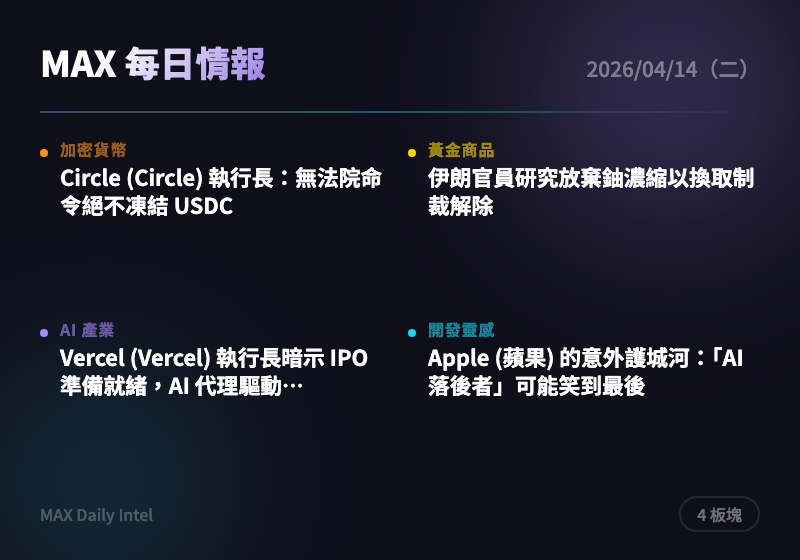
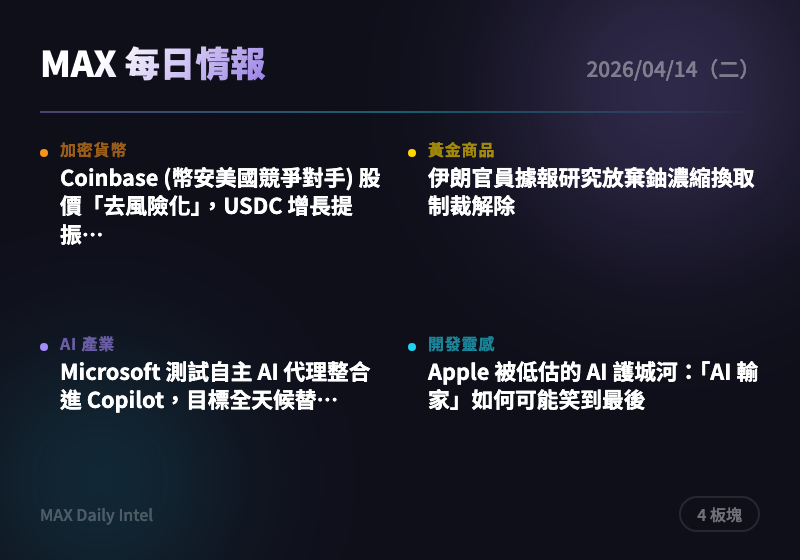
intel: 2026-04-14 每日情報自動生成

diff --git a/docs/2026-04-14.html b/docs/2026-04-14.html
@@ -317,16 +317,16 @@
       <span class="badge">2 則</span>
     </div>
     <div class="news-card">
-      <div class="source">CoinDesk</div>
-      <h3><a href="https://www.coindesk.com/business/2026/04/13/circle-ceo-says-he-won-t-freeze-usdc-without-a-court-order-even-as-hackers-walk-away-with-millions" target="_blank" rel="noopener">Circle (Circle) 執行長：無法院命令絕不凍結 USDC</a></h3>
-      <div class="summary">Circle (Circle) 執行長明確表態，即使駭客利用 USDC 洗錢，也不會在無法院命令的情況下主動凍結資產，強調去中心化原則。此聲明凸顯穩定幣發行商在「合規」與「去中心化精神」之間的根本張力。對於機構持有者而言，USDC 的抗審查立場是加分項，但也意味著監管風險並未消除。</div>
-      <div class="tags"><span class="tag">USDC</span><span class="tag">Circle</span><span class="tag">去中心化</span><span class="tag">監管</span></div>
+      <div class="source">The Block</div>
+      <h3><a href="https://www.theblock.co/post/397233/coinbase-shares-de-risked-selloff-usdc-growth-circle-outlook-william-blair?utm_source=rss&utm_medium=rss" target="_blank" rel="noopener">Coinbase (幣安美國競爭對手) 股價「去風險化」，USDC 增長提振 Circle 前景</a></h3>
+      <div class="summary">Coinbase 股價距 2025 年 7 月高點 445 美元仍跌逾 60%，但 William Blair 分析師認為拋售已充分反映風險，USDC 的持續增長成為支撐估值的關鍵動能。這顯示穩定幣生態系統的健康度正成為評估交易所基本面的核心指標。投資人可將 USDC 鑄造量趨勢視為 Coinbase 收入的領先指標。</div>
+      <div class="tags"><span class="tag">穩定幣</span><span class="tag">交易所</span><span class="tag">估值分析</span><span class="tag">USDC</span></div>
     </div>
     <div class="news-card">
       <div class="source">CoinDesk</div>
-      <h3><a href="https://www.coindesk.com/policy/2026/04/13/bankers-rebuff-white-house-claim-that-stablecoin-yield-doesn-t-threaten-deposits" target="_blank" rel="noopener">銀行業者反駁白宮：穩定幣收益率確實威脅存款</a></h3>
-      <div class="summary">美國銀行業者公開駁斥白宮對穩定幣收益率「不影響銀行存款」的說法，認為若穩定幣開始提供利息，將直接與銀行存款競爭。此論戰正值美國國會審議穩定幣法案的關鍵時刻，監管走向將深遠影響整個加密金融生態。投資者應密切關注穩定幣立法進展，這將決定 USDC、USDT 等資產的合規空間。</div>
-      <div class="tags"><span class="tag">穩定幣</span><span class="tag">監管</span><span class="tag">美國政策</span><span class="tag">銀行業</span></div>
+      <h3><a href="https://www.coindesk.com/business/2026/04/13/circle-ceo-says-he-won-t-freeze-usdc-without-a-court-order-even-as-hackers-walk-away-with-millions" target="_blank" rel="noopener">Circle 執行長：無法院命令絕不凍結 USDC，即便駭客正在盜走數百萬</a></h3>
+      <div class="summary">Circle (穩定幣發行商) 執行長公開表態，不會在未獲法院命令的情況下凍結 USDC，此聲明直接回應外界對穩定幣緊急干預機制的質疑。這一立場強化了去中心化精神，但同時也引發監管機構對穩定幣缺乏即時應急機制的擔憂。持有 USDC 的機構應了解此政策對危機情境下資產保護的潛在影響。</div>
+      <div class="tags"><span class="tag">穩定幣</span><span class="tag">監管</span><span class="tag">資安</span><span class="tag">Circle</span></div>
     </div>
   </section>
 
@@ -338,15 +338,15 @@
     </div>
     <div class="news-card">
       <div class="source">ForexLive</div>
-      <h3><a href="https://investinglive.com/news/iran-officials-are-studying-abandoning-enrichment-report-20260413/" target="_blank" rel="noopener">伊朗官員研究放棄鈾濃縮以換取制裁解除</a></h3>
-      <div class="summary">據報導，伊朗官員正內部研究以放棄鈾濃縮換取全面制裁解除的方案，顯示雙方可能在最高層仍存在談判空間。若協議達成，原油供應將大幅增加，油價與黃金的地緣溢價將同步回落。黃金多頭需防範地緣緊張意外緩解帶來的回調風險。</div>
-      <div class="tags"><span class="tag">地緣政治</span><span class="tag">伊朗核協議</span><span class="tag">油價</span><span class="tag">黃金</span></div>
+      <h3><a href="https://investinglive.com/news/iran-officials-are-studying-abandoning-enrichment-report-20260413/" target="_blank" rel="noopener">伊朗官員據報研究放棄鈾濃縮換取制裁解除</a></h3>
+      <div class="summary">紐約郵報報導伊朗官員正評估以放棄鈾濃縮換取全面制裁解除的談判框架，市場解讀為 Trump 尋求快速外交出口的訊號。若談判取得實質進展，地緣政治風險溢價將大幅回落，對黃金、油價形成下行壓力。交易者應設置地緣政治情境的雙向停損，避免單邊押注。</div>
+      <div class="tags"><span class="tag">地緣政治</span><span class="tag">伊朗</span><span class="tag">黃金</span><span class="tag">避險</span></div>
     </div>
     <div class="news-card">
       <div class="source">ForexLive</div>
-      <h3><a href="https://investinglive.com/news/investinglive-european-markets-wrap-oil-jumps-up-risk-dips-after-us-iran-talks-collapse-20260413/" target="_blank" rel="noopener">美伊談判破裂：油價飆升、風險資產承壓</a></h3>
-      <div class="summary">美伊核談判宣告崩潰，市場情緒迅速轉向避險，油價應聲大漲。Trump (川普) 政府同步宣告對伊朗港口實施封鎖，地緣政治緊張局勢急速升溫。黃金短期避險需求料將上升，建議關注突破前高後的持倉機會。</div>
-      <div class="tags"><span class="tag">地緣政治</span><span class="tag">伊朗</span><span class="tag">油價</span><span class="tag">避險</span></div>
+      <h3><a href="https://investinglive.com/news/investinglive-european-markets-wrap-oil-jumps-up-risk-dips-after-us-iran-talks-collapse-20260413/" target="_blank" rel="noopener">美伊談判破裂後油價飆升、風險情緒降溫，歐洲市場承壓</a></h3>
+      <div class="summary">美伊核談判破裂疊加 Trump 宣布對伊朗港口封鎖，導致油價急漲、歐洲股市風險偏好下滑。這印證了中東局勢對全球能源供應的直接傳導效應，黃金作為避險資產需求持續受到支撐。短期內應維持黃金多頭部位以對沖局勢進一步惡化的尾部風險。</div>
+      <div class="tags"><span class="tag">地緣政治</span><span class="tag">油價</span><span class="tag">黃金</span><span class="tag">風險情緒</span></div>
     </div>
   </section>
 
@@ -375,16 +375,16 @@
       <span class="badge">2 則</span>
     </div>
     <div class="news-card">
-      <div class="source">TechCrunch AI</div>
-      <h3><a href="https://techcrunch.com/2026/04/13/vercel-ceo-guillermo-rauch-signals-ipo-readiness-as-ai-agents-fuel-revenue-surge/" target="_blank" rel="noopener">Vercel (Vercel) 執行長暗示 IPO 準備就緒，AI 代理驅動營收暴增</a></h3>
-      <div class="summary">Vercel (Vercel) 執行長 Guillermo Rauch (勞赫) 公開表示公司已為 IPO 做好準備，主要動能來自 AI 生成應用與代理框架的爆炸性成長。在許多 AI 前時代新創掙扎轉型之際，Vercel 已成功卡位 AI 應用部署基礎設施的關鍵位置。這是觀察 AI 基礎設施投資機會的重要訊號。</div>
-      <div class="tags"><span class="tag">AI基礎設施</span><span class="tag">IPO</span><span class="tag">Vercel</span><span class="tag">開發者工具</span></div>
+      <div class="source">The Verge AI</div>
+      <h3><a href="https://www.theverge.com/tech/911080/microsoft-ai-openclaw-365-businesses" target="_blank" rel="noopener">Microsoft 測試自主 AI 代理整合進 Copilot，目標全天候替用戶執行任務</a></h3>
+      <div class="summary">據《The Information》報導，Microsoft 正測試將自主代理（agentic AI）功能整合進 Microsoft 365 Copilot，讓 AI 能在無人監督情況下全天候自動完成工作任務。這標誌著企業 AI 助理從「被動回應」向「主動執行」的關鍵轉型，將直接衝擊 RPA 和工作流程自動化市場。企業 IT 決策者應提前評估此類自主代理的資安與合規風險。</div>
+      <div class="tags"><span class="tag">AI代理</span><span class="tag">Microsoft</span><span class="tag">企業AI</span><span class="tag">自動化</span></div>
     </div>
     <div class="news-card">
       <div class="source">The Verge AI</div>
-      <h3><a href="https://www.theverge.com/ai-artificial-intelligence/910890/openai-sam-altman-second-home-attack-shooting" target="_blank" rel="noopener">Sam Altman (奧特曼) 住所遭槍擊，兩名嫌疑人被捕</a></h3>
-      <div class="summary">OpenAI (OpenAI) 執行長 Sam Altman (奧特曼) 週日清晨在舊金山 Russian Hill 住所再度遭遇攻擊事件，警方已逮捕兩名嫌疑人並以過失開槍罪起訴。此為近期針對 Altman (奧特曼) 的第二起安全事件，科技業高管人身安全問題引發廣泛關注。事件對 OpenAI (OpenAI) 短期運營影響有限，但凸顯 AI 領袖所面臨的潛在社會反彈。</div>
-      <div class="tags"><span class="tag">OpenAI</span><span class="tag">人身安全</span><span class="tag">科技業高管</span><span class="tag">社會議題</span></div>
+      <h3><a href="https://www.theverge.com/ai-artificial-intelligence/910890/openai-sam-altman-second-home-attack-shooting" target="_blank" rel="noopener">OpenAI 執行長 Sam Altman 舊金山住所再遭槍擊，兩嫌犯落網</a></h3>
+      <div class="summary">Sam Altman (奧特曼) 的俄羅斯山住所週日清晨發生槍擊事件，監控畫面顯示一輛車輛開槍後逃逸，兩名嫌犯以過失放槍罪被捕。這是針對 Altman 的第二起安全事件，凸顯 AI 頂尖領袖正面臨日益升高的人身威脅。此事件可能促使科技業高管大幅強化個人安全防護措施。</div>
+      <div class="tags"><span class="tag">AI領袖</span><span class="tag">人身安全</span><span class="tag">OpenAI</span><span class="tag">矽谷</span></div>
     </div>
   </section>
 
@@ -396,15 +396,15 @@
     </div>
     <div class="news-card">
       <div class="source">Hacker News Best</div>
-      <h3><a href="https://adlrocha.substack.com/p/adlrocha-how-the-ai-loser-may-end" target="_blank" rel="noopener">Apple (蘋果) 的意外護城河：「AI 落後者」可能笑到最後</a></h3>
-      <div class="summary">Hacker News 熱文（390 分）分析 Apple (蘋果) 在 AI 競賽中看似落後，卻因硬體生態、隱私架構與端側運算優勢，可能在下一階段佔得先機。當雲端 AI 邊際成本下降、隱私監管趨嚴，Apple (蘋果) 的「慢而穩」策略或成差異化壁壘。開發者評估 on-device AI 佈局時，Apple (蘋果) 平台值得重新審視。</div>
-      <div class="tags"><span class="tag">Apple</span><span class="tag">AI策略</span><span class="tag">端側AI</span><span class="tag">競爭分析</span></div>
+      <h3><a href="https://adlrocha.substack.com/p/adlrocha-how-the-ai-loser-may-end" target="_blank" rel="noopener">Apple 被低估的 AI 護城河：「AI 輸家」如何可能笑到最後</a></h3>
+      <div class="summary">Hacker News 上獲 392 分、350 則評論熱議的文章，深度分析 Apple 獨特的硬體+軟體+隱私整合優勢如何在 AI 落地應用階段形成天然護城河。作者指出當 AI 競爭從模型能力轉向端側推理與用戶信任時，Apple 的生態系統將從劣勢翻轉為優勢。這對評估 AI 時代科技巨頭競爭格局有重要的策略參考價值。</div>
+      <div class="tags"><span class="tag">Apple</span><span class="tag">AI戰略</span><span class="tag">競爭格局</span><span class="tag">端側AI</span></div>
     </div>
     <div class="news-card">
       <div class="source">Product Hunt</div>
-      <h3><a href="https://www.producthunt.com/products/superhq" target="_blank" rel="noopener">SuperHQ：在真實 microVM 沙盒中運行 AI 程式碼代理</a></h3>
-      <div class="summary">SuperHQ 提供在隔離 microVM (微型虛擬機) 沙盒環境中執行 AI 程式碼代理的基礎設施，解決代理執行環境安全隔離的核心痛點。隨著 AI coding agent 進入生產應用，安全沙盒執行環境成為關鍵基礎設施缺口。這類工具對需要在多租戶環境部署 AI 代理的開發團隊具有直接參考價值。</div>
-      <div class="tags"><span class="tag">AI代理</span><span class="tag">沙盒安全</span><span class="tag">開發工具</span><span class="tag">基礎設施</span></div>
+      <h3><a href="https://www.producthunt.com/products/contextpool" target="_blank" rel="noopener">ContextPool：為 AI 編程代理提供跨會話持久記憶的新工具</a></h3>
+      <div class="summary">Product Hunt 新品 ContextPool 專為解決 AI 編程代理（如 Copilot、Cursor 等）在不同工作會話間遺忘上下文的核心痛點而設計。持久記憶能力是 AI 代理從「工具」進化為「協作夥伴」的關鍵缺口，此類基礎設施工具市場需求正快速增長。開發者可評估其與現有 IDE 工具鏈的整合深度再決定是否採用。</div>
+      <div class="tags"><span class="tag">AI編程</span><span class="tag">開發工具</span><span class="tag">持久記憶</span><span class="tag">代理架構</span></div>
     </div>
   </section>
 

diff --git a/docs/cards/2026-04-14-card.html b/docs/cards/2026-04-14-card.html
@@ -23,9 +23,9 @@ body{width:400px;height:280px;font-family:'Noto Sans TC',-apple-system,sans-seri
 <div class="content">
 <div class="top-row"><span class="title">MAX 每日情報</span><span class="date">2026/04/14（二）</span></div>
 <div class="divider"></div>
-<div class="grid"><div class="cell"><div class="dot" style="background:#f7931a"></div><div><div class="label" style="color:#f7931a">加密貨幣</div><div class="headline">Circle (Circle) 執行長：無法院命令絕不凍結 USDC</div></div></div>
-<div class="cell"><div class="dot" style="background:#ffd700"></div><div><div class="label" style="color:#ffd700">黃金商品</div><div class="headline">伊朗官員研究放棄鈾濃縮以換取制裁解除</div></div></div>
-<div class="cell"><div class="dot" style="background:#a78bfa"></div><div><div class="label" style="color:#a78bfa">AI 產業</div><div class="headline">Vercel (Vercel) 執行長暗示 IPO 準備就緒，AI 代理驅動…</div></div></div>
-<div class="cell"><div class="dot" style="background:#22d3ee"></div><div><div class="label" style="color:#22d3ee">開發靈感</div><div class="headline">Apple (蘋果) 的意外護城河：「AI 落後者」可能笑到最後</div></div></div></div>
+<div class="grid"><div class="cell"><div class="dot" style="background:#f7931a"></div><div><div class="label" style="color:#f7931a">加密貨幣</div><div class="headline">Coinbase (幣安美國競爭對手) 股價「去風險化」，USDC 增長提振…</div></div></div>
+<div class="cell"><div class="dot" style="background:#ffd700"></div><div><div class="label" style="color:#ffd700">黃金商品</div><div class="headline">伊朗官員據報研究放棄鈾濃縮換取制裁解除</div></div></div>
+<div class="cell"><div class="dot" style="background:#a78bfa"></div><div><div class="label" style="color:#a78bfa">AI 產業</div><div class="headline">Microsoft 測試自主 AI 代理整合進 Copilot，目標全天候替…</div></div></div>
+<div class="cell"><div class="dot" style="background:#22d3ee"></div><div><div class="label" style="color:#22d3ee">開發靈感</div><div class="headline">Apple 被低估的 AI 護城河：「AI 輸家」如何可能笑到最後</div></div></div></div>
 <div class="bottom-row"><span class="url">MAX Daily Intel</span><span class="badge">4 板塊</span></div>
 </div></body></html>
